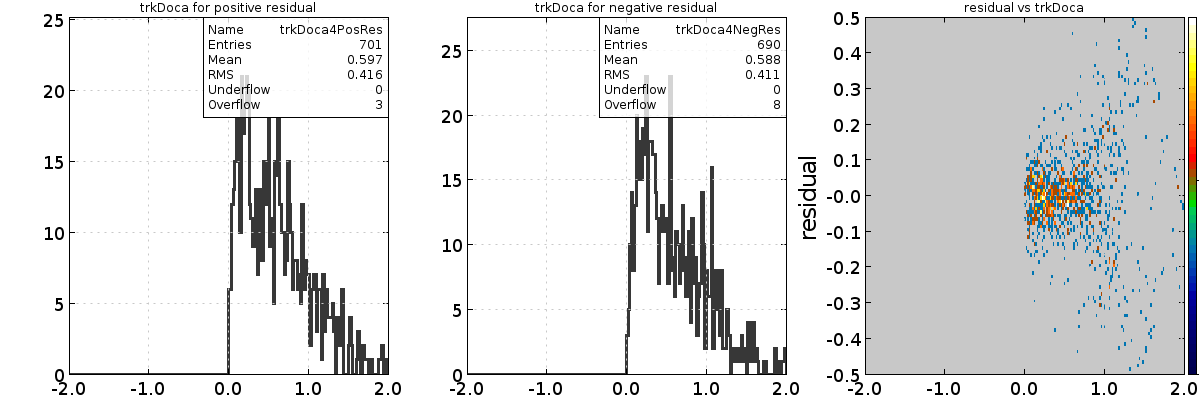
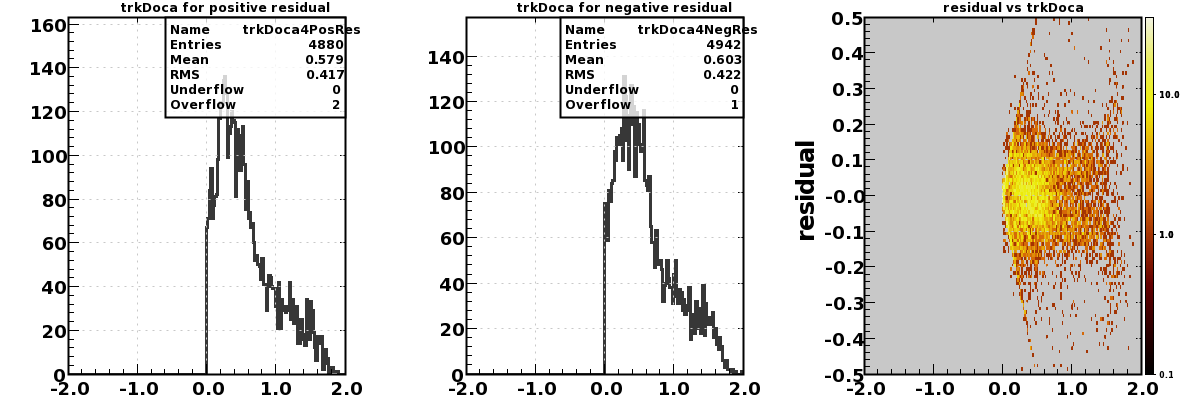
Added Config file

diff --git a/src/org/jlab/dc_calibration/fit/TimeToDistanceFitter.java b/src/org/jlab/dc_calibration/fit/TimeToDistanceFitter.java
@@ -555,15 +555,15 @@ public class TimeToDistanceFitter implements ActionListener, Runnable
 				h1timeRes.put(new Coordinate(i, j), new H1F(hNm, 200, -1.0, 1.0));
 				hTtl = String.format("residual (cm) (Sec=%d, SL=%d)", i, j + 1);
 				h1timeRes.get(new Coordinate(i, j)).setTitle(hTtl);
-				h1timeRes.get(new Coordinate(i, j)).setTitleX("residual");
+				h1timeRes.get(new Coordinate(i, j)).setTitleX("residual [cm]");
 
 				// h2timeResVsTrkDoca
 				hNm = String.format("timeResVsTrkDocaS%dSL%d", i, j);
 				h2timeResVsTrkDoca.put(new Coordinate(i, j), new H2F(hNm, 200, 0.0, 1.2 * dMax, 200, -1.0, 1.0));
 				hTtl = String.format("residual (cm) (Sec=%d, SL=%d)", i, j + 1);
 				h2timeResVsTrkDoca.get(new Coordinate(i, j)).setTitle(hTtl);
-				h2timeResVsTrkDoca.get(new Coordinate(i, j)).setTitleX("|trkDoca|");
-				h2timeResVsTrkDoca.get(new Coordinate(i, j)).setTitleY("residual");
+				h2timeResVsTrkDoca.get(new Coordinate(i, j)).setTitleX("|trkDoca| [cm]");
+				h2timeResVsTrkDoca.get(new Coordinate(i, j)).setTitleY("residual [ns]");
 
 				// Following is used for individual angle bins
 				for (int k = 0; k < nThBinsVz; k++)
@@ -579,8 +579,8 @@ public class TimeToDistanceFitter implements ActionListener, Runnable
 					h2timeResVsTrkDoca.put(new Coordinate(i, j, k), new H2F(hNm, 200, 0.0, 1.2 * dMax, 200, -1.0, 1.0));
 					hTtl = String.format("Sec=%d, SL=%d, Th(%2.1f,%2.1f)", i, j + 1, thEdgeVzL[k], thEdgeVzH[k]);
 					h2timeResVsTrkDoca.get(new Coordinate(i, j, k)).setTitle(hTtl);
-					h2timeResVsTrkDoca.get(new Coordinate(i, j, k)).setTitleX("|trkDoca|");
-					h2timeResVsTrkDoca.get(new Coordinate(i, j, k)).setTitleY("residual");
+					h2timeResVsTrkDoca.get(new Coordinate(i, j, k)).setTitleX("|trkDoca| [cm]");
+					h2timeResVsTrkDoca.get(new Coordinate(i, j, k)).setTitleY("residual [ns]");
 				}
 			}
 		}
@@ -775,6 +775,7 @@ public class TimeToDistanceFitter implements ActionListener, Runnable
 			layerMapTBHits.put(bnkHits.getInt("id", j), bnkHits.getInt("layer", j));
 			wireMapTBHits.put(bnkHits.getInt("id", j), bnkHits.getInt("wire", j));
 			timeMapTBHits.put(bnkHits.getInt("id", j), (double) bnkHits.getFloat("time", j));
+			//timeMapTBHits.put(bnkHits.getInt("id", j), (double) (bnkHits.getFloat("time", j) - bnkHits.getFloat("TProp", j) - bnkHits.getFloat("TFlight", j)) );  // Subtracted TProp and TFlight
 			trkDocaMapTBHits.put(bnkHits.getInt("id", j), (double) bnkHits.getFloat("trkDoca", j));
 			calcDocaMapTBHits.put(bnkHits.getInt("id", j), (double) bnkHits.getFloat("doca", j));
 			timeResMapTBHits.put(bnkHits.getInt("id", j), (double) bnkHits.getFloat("timeResidual", j));
@@ -802,7 +803,7 @@ public class TimeToDistanceFitter implements ActionListener, Runnable
 		boolean validSegm = false;
 		double trkChiSq = 1000000.0;// Just giving a very big value of trk-fit-chi-square (for bad
 									// fits, its a big #)
-		double slopError = 0.0; //<------------------ New cut, latif
+		double slopeError = 0.0; //<------------------ New cut, latif
 		gSegmThBinMapTBSegments = new HashMap<Integer, Integer>();
 		gSegmAvgWireTBSegments = new HashMap<Integer, Double>();
 		gFitChisqProbTBSegments = new HashMap<Integer, Double>();
@@ -815,8 +816,11 @@ public class TimeToDistanceFitter implements ActionListener, Runnable
 			int sector = bnkSegs.getInt("sector", j);
 			
 			//-------- Cut 1 -------------
-			if (!(sector == 2))
-				continue; 
+			if(iSecMin != 0 && iSecMax != 6)
+			{	
+				if (!(sector == iSecMax ))
+					continue;
+			}	
 
 			// Check if any of these segments matches with those associated with the available
 			// tracks
@@ -1335,7 +1339,7 @@ public class TimeToDistanceFitter implements ActionListener, Runnable
 			canvas3.draw(h2timeVcalcDoca.get(new Coordinate(iSec, iSL, k)));
 			canvas3.draw(mapOfFitLinesX.get(new Coordinate(iSec, iSL, k)), "same");
 			canvas3.getPad(k - nSkippedThBins).setTitle(Title);
-			canvas3.setPadTitlesX("trkDoca");
+			canvas3.setPadTitlesX("trkDoca [cm]");
 			canvas3.setPadTitlesY("time (ns)");
 			canvas3.draw(vertLineDmax[iSL], "same");
 			canvas3.draw(vertLineDmaxCos30[iSL], "same");
@@ -1738,8 +1742,8 @@ public class TimeToDistanceFitter implements ActionListener, Runnable
 					canvas.draw(mapOfFitLinesXOld.get(new Coordinate(i, j, k)), "same");
 					// canvas.draw(mapOfFitLinesX.get(new Coordinate(i, j, k)), "same");
 					canvas.getPad(j).setTitle(Title);
-					canvas.setPadTitlesX("trkDoca");
-					canvas.setPadTitlesY("time (ns)");
+					canvas.setPadTitlesX("trkDoca [cm]"); 
+					canvas.setPadTitlesY("time [ns]");
 					/*
 					 * PaveText stat1 = new PaveText(colSimulFit); stat1.addText("simulFit");
 					 * PaveText stat2 = new PaveText(colIndivFit); stat2.addText("indivFit");

diff --git a/src/org/jlab/dc_calibration/ui/CalibStyle.java b/src/org/jlab/dc_calibration/ui/CalibStyle.java
@@ -7,38 +7,40 @@ import org.jlab.groot.base.GStyle;
 
 public class CalibStyle
 {
-    /**
-     * Empty Constructor
-     */
-    public CalibStyle()
-    {
-	
-    }
-    
-    /**
-     * Set custom style for plotting
-     */
-    public static void setStyle()
-    {
-	GStyle.getGraphErrorsAttributes().setMarkerStyle(0);
-	GStyle.getGraphErrorsAttributes().setMarkerColor(3);
-	GStyle.getGraphErrorsAttributes().setMarkerSize(7);
-	GStyle.getGraphErrorsAttributes().setLineColor(3);
-	GStyle.getGraphErrorsAttributes().setLineWidth(3);
-		
-	GStyle.getAxisAttributesX().setTitleFontSize(24);
-	GStyle.getAxisAttributesX().setLabelFontSize(18);
-	GStyle.getAxisAttributesY().setTitleFontSize(24);
-	GStyle.getAxisAttributesY().setLabelFontSize(18);
+	/**
+	 * Empty Constructor
+	 */
+	public CalibStyle()
+	{
 
-	GStyle.getH1FAttributes().setLineWidth(3);
-	GStyle.getH1FAttributes().setLineColor(21);
-	//GStyle.getH1FAttributes().setFillColor(34);
-	//GStyle.getH1FAttributes().setOptStat("10");
-	GStyle.getH1FAttributes().setOptStat("111111");		
-				
-	GStyle.getFunctionAttributes().setLineWidth(2);
-	GStyle.getFunctionAttributes().setLineColor(32);
-	GStyle.getAxisAttributesZ().setLog(true);
-    }
+	}
+
+	/**
+	 * Set custom style for plotting
+	 */
+	public static void setStyle()
+	{
+		GStyle.getGraphErrorsAttributes().setMarkerStyle(0);
+		GStyle.getGraphErrorsAttributes().setMarkerColor(3);
+		GStyle.getGraphErrorsAttributes().setMarkerSize(7);
+		GStyle.getGraphErrorsAttributes().setLineColor(3);
+		GStyle.getGraphErrorsAttributes().setLineWidth(3);
+
+		GStyle.getAxisAttributesX().setTitleFontSize(24);
+		GStyle.getAxisAttributesX().setLabelFontSize(18);
+		GStyle.getAxisAttributesY().setTitleFontSize(24);
+		GStyle.getAxisAttributesY().setLabelFontSize(18);
+
+		GStyle.getH1FAttributes().setLineWidth(3);
+		GStyle.getH1FAttributes().setLineColor(21);
+		// GStyle.getH1FAttributes().setFillColor(34);
+		// GStyle.getH1FAttributes().setOptStat("10");
+		GStyle.getH1FAttributes().setOptStat("111111");
+
+		GStyle.getFunctionAttributes().setLineWidth(2);
+		GStyle.getFunctionAttributes().setLineColor(32);
+		GStyle.getAxisAttributesZ().setLog(true);
+
+		//GStyle.setPalette(PaletteName.kRainBow); // Will work after updating to new Groot
+	}
 }

diff --git a/src/org/jlab/dc_calibration/ui/FitControlUI.java b/src/org/jlab/dc_calibration/ui/FitControlUI.java
@@ -42,7 +42,7 @@ public class FitControlUI extends javax.swing.JFrame
 	// private final int nPars = nFitPars; //9;
 	private int gSector = 2;
 	private int gSuperlayer = 1;
-	private String ccdbVariation = "dc_test1";
+	private String ccdbVariation = "calib";
 	private int xMeanErrorType = 2; // 0: RMS, 1=RMS/sqrt(N), 2 = 1.0 (giving equal weight to all
 									// profile means)
 	private boolean[] checkboxVal =
@@ -134,11 +134,11 @@ public class FitControlUI extends javax.swing.JFrame
 		// Instead of reading the two tables again and again whenever we select the item from
 		// the corresponding jComboBox4, it's better to read both once at the beginning,
 		// keep them stored in two different array variables and use those arrays later.
-		ReadT2DparsFromCCDB rdTable = new ReadT2DparsFromCCDB("dc_test1",1000);
+		ReadT2DparsFromCCDB rdTable = new ReadT2DparsFromCCDB("calib",2091);
 		rdTable.LoadCCDB();
 		parsFromCCDB_dc_test1 = rdTable.parsFromCCDB;
 
-		ReadT2DparsFromCCDB rdTable2 = new ReadT2DparsFromCCDB("default",1000);
+		ReadT2DparsFromCCDB rdTable2 = new ReadT2DparsFromCCDB("default",2091);
 		rdTable2.LoadCCDB();
 		parsFromCCDB_default = rdTable2.parsFromCCDB;
 	}
@@ -150,7 +150,7 @@ public class FitControlUI extends javax.swing.JFrame
 			for (int j = 0; j < nFitPars; j++)
 			{
 				// Get the init values from CCDB
-				if (ccdbVariation == "dc_test1")
+				if (ccdbVariation == "calib")
 				{
 					resetFitPars[i][j] = parsFromCCDB_dc_test1[sector - 1][i][j];
 				}
@@ -179,9 +179,9 @@ public class FitControlUI extends javax.swing.JFrame
 			}
 
 			// 6/5/17: as of now, deltaT0 is not in CCDB table, so I am assigning by hard-coding
-			resetFitPars[i][9] = 0.0;
-			resetFitParsLow[i][9] = -30.0;
-			resetFitParsHigh[i][9] = 30.0;
+			//resetFitPars[i][9] = 0.0;
+			//resetFitParsLow[i][9] = -30.0;
+			//resetFitParsHigh[i][9] = 30.0;
 		}
 	}
 
@@ -853,7 +853,7 @@ public class FitControlUI extends javax.swing.JFrame
 		});
 
 		jComboBox4.setModel(new javax.swing.DefaultComboBoxModel<>(new String[]
-		{ "default", "dc_test1" }));
+		{ "default", "calib" }));
 		jComboBox4.setSelectedIndex(1);
 		jComboBox4.addActionListener(new java.awt.event.ActionListener()
 		{

diff --git a/src/org/jlab/dc_calibration/init/Configure.java b/src/org/jlab/dc_calibration/init/Configure.java
@@ -1,0 +1,52 @@
+//Filename: Config.java
+//Description: 
+//Author: Latif Kabir < latif@jlab.org >
+//Created: Sun Dec 24 00:16:14 2017 (-0500)
+//URL: jlab.org/~latif
+
+package org.jlab.dc_calibration.init;
+
+import java.util.Properties;
+
+public class Configure
+{
+	Properties configFile;
+	public static int Sector;
+	public static int iSecMax;
+	public static int iSecMin;
+	public static String BField;
+	
+	public Configure(String config_file)
+	{
+		configFile = new java.util.Properties();
+		try
+		{
+			configFile.load(this.getClass().getClassLoader().getResourceAsStream(config_file));
+		}
+		catch (Exception eta)
+		{
+			eta.printStackTrace();
+		}
+	}
+
+	public String getProperty(String key)
+	{
+		String value = configFile.getProperty(key);
+		return value;
+	}
+
+	public static void setConfig()	
+	{
+		Configure config = new Configure("config/config.cfg");
+		Sector = Integer.parseInt(config.getProperty("sector"));
+		iSecMax = Integer.parseInt(config.getProperty("iSecMax"));
+		iSecMin = Integer.parseInt(config.getProperty("iSecMin"));
+		BField = config.getProperty("BField");		
+	}
+	
+	public static void main(String[] args)
+	{
+		Configure.setConfig();
+		System.out.println(" Sector: " + Configure.Sector + " iSecMax: " + Configure.iSecMax + " iSecMin: " + Configure.iSecMin + " BField: " + Configure.BField);
+	}
+}

diff --git a/src/org/jlab/dc_calibration/core/EstimateT0correction.java b/src/org/jlab/dc_calibration/core/EstimateT0correction.java
@@ -98,13 +98,14 @@ public class EstimateT0correction
 
 	public EstimateT0correction()
 	{
-		String iDir = "/Users/kpadhikari/Desktop/BigFls/CLAS12/KPP/";
+		String iDir = "/home/latif/Scratch/Data/"; 
 		String[] results = new String[2];
-		results[0] = iDir + "kpp_Rec_000758_Files1to6Comb.hipo"; // "kpp_Decoded_000806_FilesAllComb.hipo";
+		results[0] = iDir + "out_clas_002052.hipo.20"; // "kpp_Decoded_000806_FilesAllComb.hipo";
 		System.out.println("Debug 11");
 		results[1] = "0";
 
-		ArrayList<String> fileArray = null;
+		ArrayList<String> fileArray = new ArrayList<String>();
+		//fileArray.add(iDir);
 		fileArray.add(results[0]);// iDir + "kpp_Rec_000758_Files1to6Comb.hipo");
 		createHists();
 		GoEstimate(results, fileArray);
@@ -904,7 +905,8 @@ public class EstimateT0correction
 		 */
 		System.out.println("Debug 0");
 		EstimateT0correction t0c = new EstimateT0correction();
-		t0c.DrawPlots();
+		//t0c.DrawPlots();
+		t0c.FitAndDrawT0PlotsForAllCables();
 		// t0c.DrawPlotsForAllCables();
 		System.out.println("Finished drawing the T0 plots ..");
 	}

diff --git a/src/org/jlab/dc_calibration/constants/Constants.java b/src/org/jlab/dc_calibration/constants/Constants.java
@@ -48,7 +48,7 @@ public final class Constants
 	{ 0.386160, 0.404220, 0.621906, 0.658597, 0.935140, 0.977982 };
 	public static final int nSL = 6;  // Number of super layers
 	public static final int nSectors = 6;  //  Number of sectors
-	public static final int iSecMin = 1, iSecMax = 2;// iSecMin = 0, iSecMax = 6;//iSecMin = 1,
+	public static final int iSecMin = 0, iSecMax = 6;// iSecMin = 0, iSecMax = 6;//iSecMin = 1,
 														// iSecMax = 2;
 	public static final int nLayer = 6;  //  Number of layers
 	public static final double[] docaBins =

diff --git a/src/org/jlab/dc_calibration/ui/DC_Calibration.java b/src/org/jlab/dc_calibration/ui/DC_Calibration.java
@@ -70,7 +70,7 @@ import org.jlab.dc_calibration.core.EstimateT0correction;
 import org.jlab.dc_calibration.core.RunReconstructionCoatjava4;
 import org.jlab.dc_calibration.fit.TimeToDistanceFitter;
 
-import javafx.scene.layout.Border;
+//import javafx.scene.layout.Border;
 
 public class DC_Calibration extends WindowAdapter implements WindowListener, ActionListener, Runnable
 {

diff --git a/src/org/jlab/dc_calibration/io/ReadT2DparsFromCCDB.java b/src/org/jlab/dc_calibration/io/ReadT2DparsFromCCDB.java
@@ -140,7 +140,7 @@ public class ReadT2DparsFromCCDB
 	 */
 	public static void main(String[] args)
 	{
-		ReadT2DparsFromCCDB read_ccdb = new ReadT2DparsFromCCDB("calib", 1894);
+		ReadT2DparsFromCCDB read_ccdb = new ReadT2DparsFromCCDB("calib", 2091);
 		read_ccdb.LoadCCDB();
 		read_ccdb.printPars();
 	}

diff --git a/src/org/jlab/dc_calibration/test/FitterForT0Static.java b/src/org/jlab/dc_calibration/test/FitterForT0Static.java
@@ -62,7 +62,7 @@ public class FitterForT0Static extends HBTimeDistribution
 	{
 		GraphErrors gr = new GraphErrors();
 				
-		minBin = 128;
+		minBin = 120;
 		
 		for(int i = minBin; i< (minBin + nPoints); ++i)
 		{
